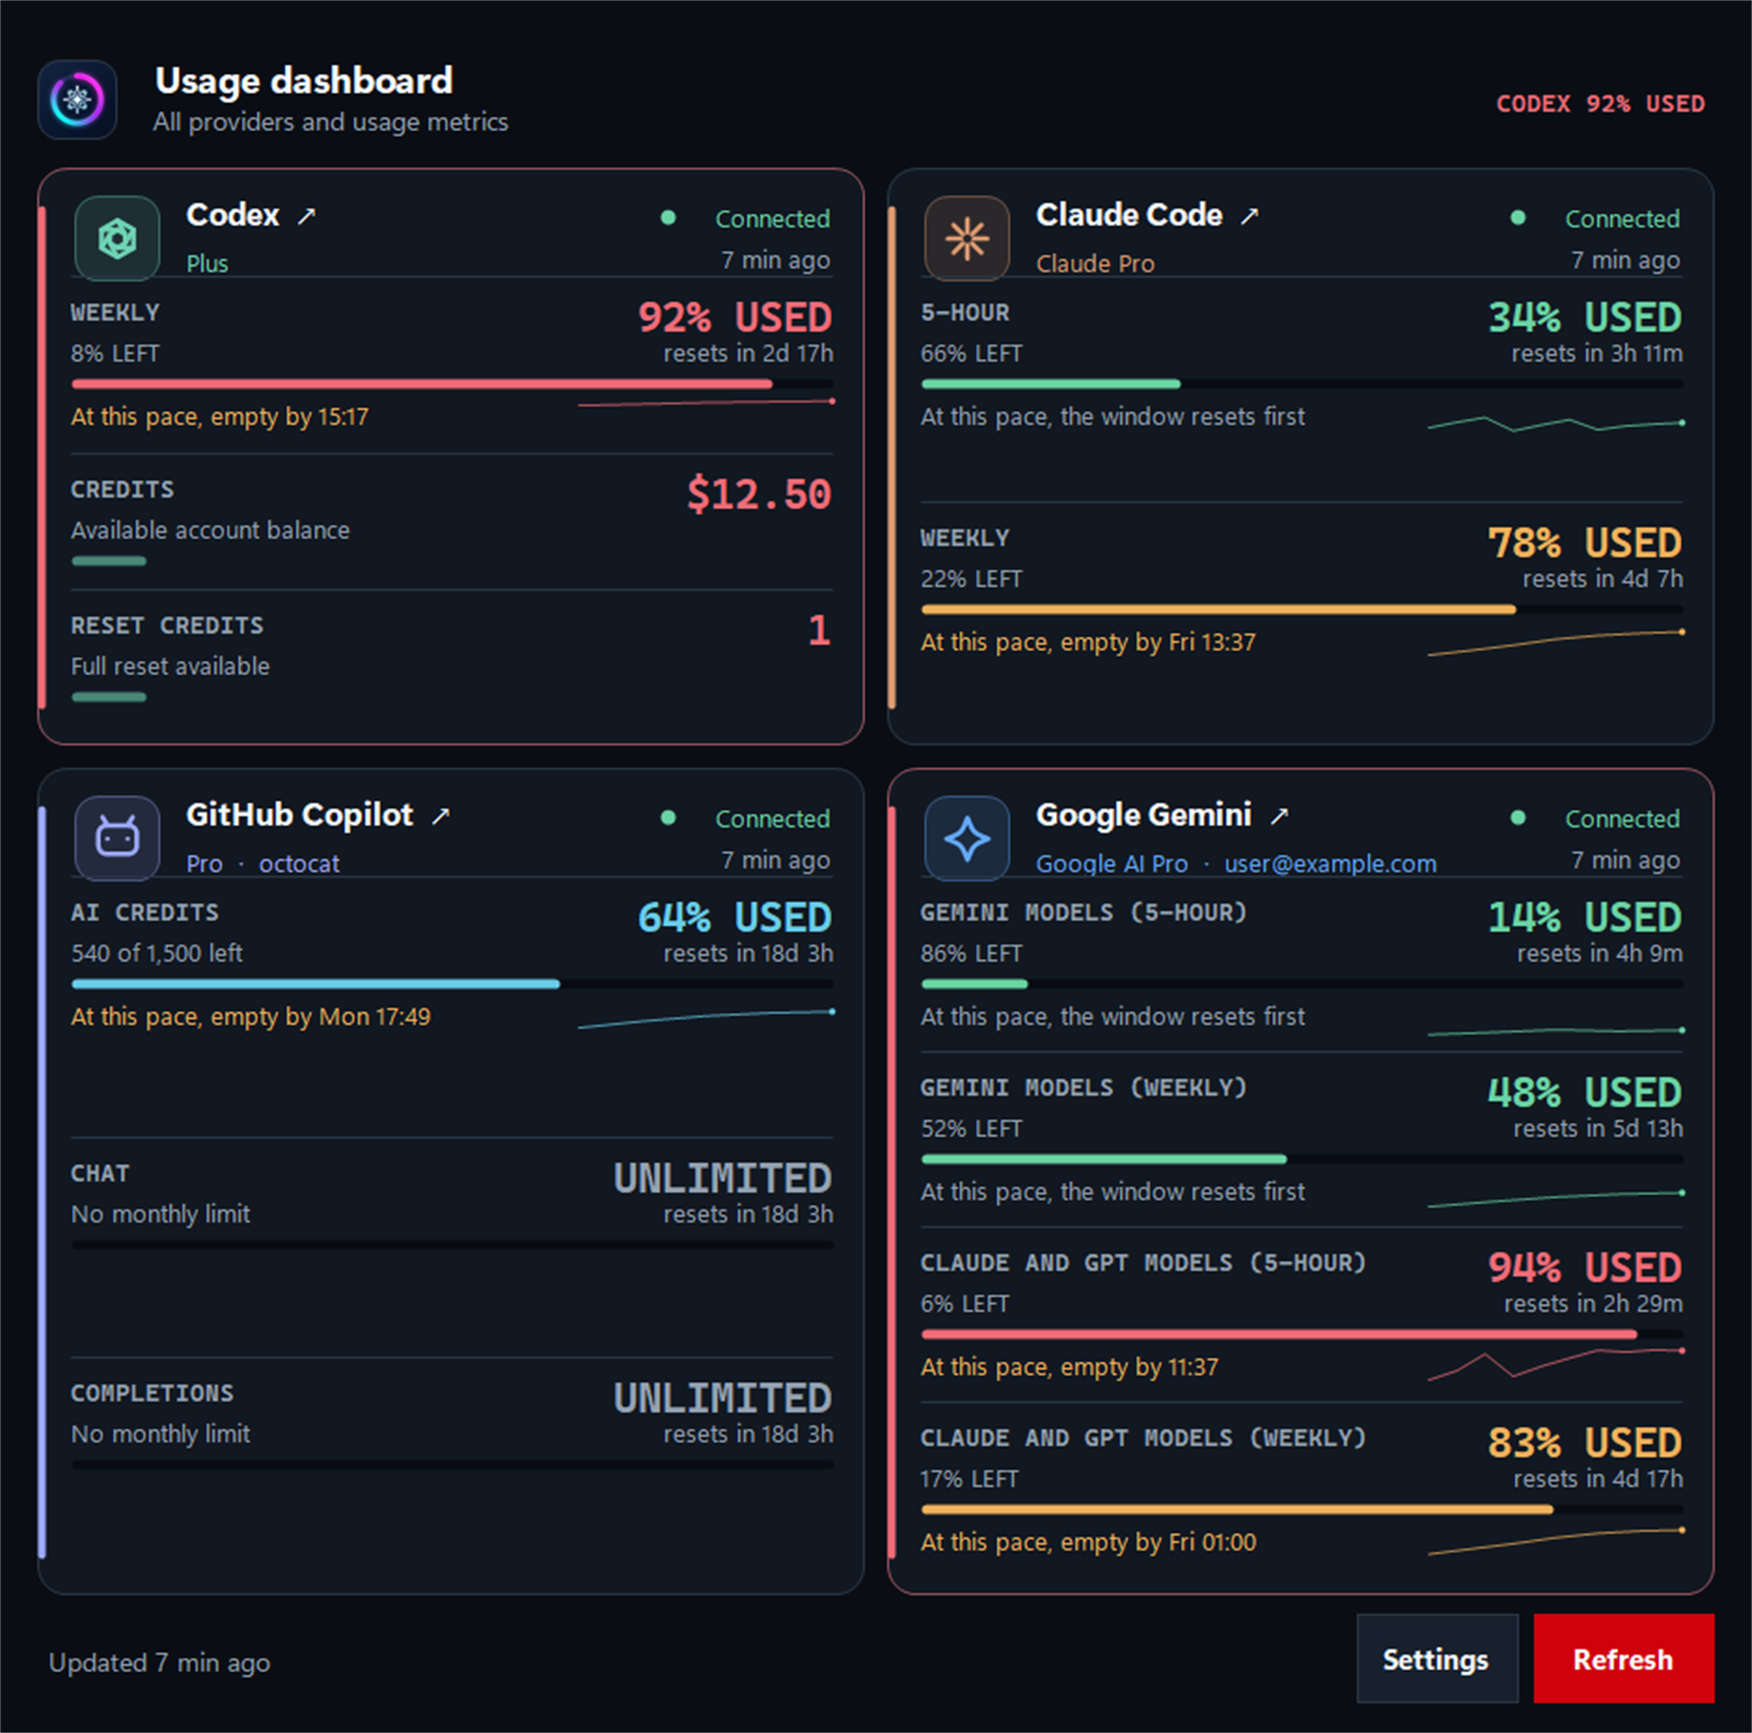
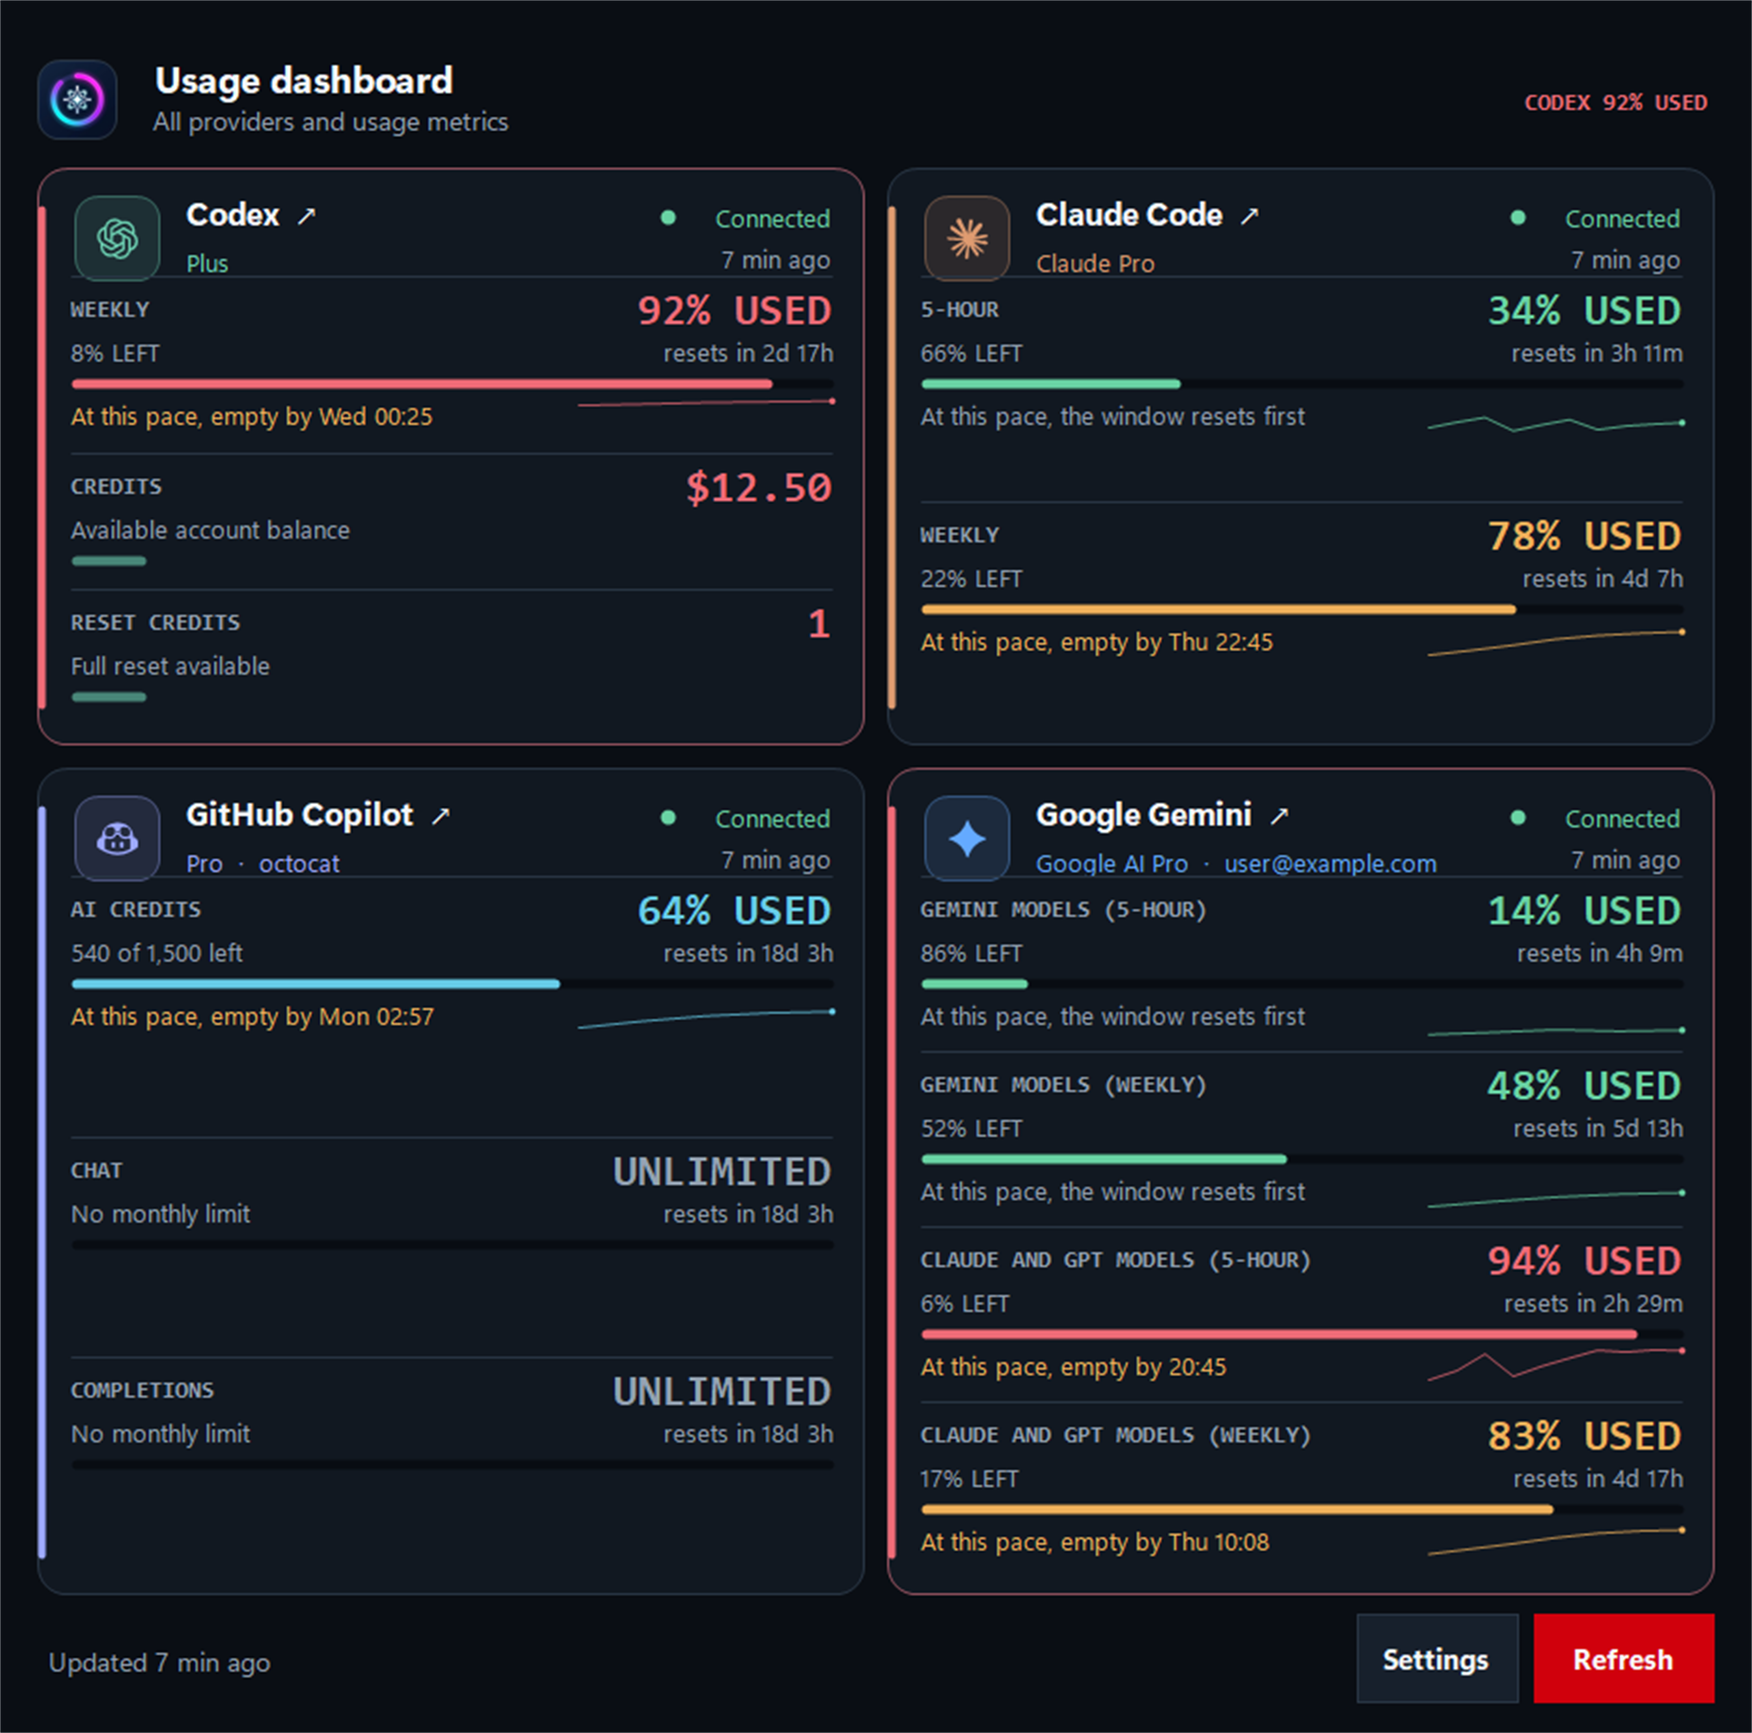
release: UsageAI 0.7.1

diff --git a/UI/ProviderIconPainter.cs b/UI/ProviderIconPainter.cs
@@ -1,9 +1,18 @@
 using System.Drawing.Drawing2D;
+using System.Drawing.Text;
+using System.Runtime.InteropServices;
 
 namespace UsageAI.UI;
 
 internal static class ProviderIconPainter
 {
+    private const string FontResourceName = "UsageAI.Resources.usageai-providers.ttf";
+    private static readonly Lazy<ProviderIconFont?> IconFont = new(
+        LoadIconFont,
+        LazyThreadSafetyMode.ExecutionAndPublication);
+
+    internal static bool IsBrandFontAvailable => IconFont.Value is not null;
+
     public static void Draw(Graphics graphics, Rectangle bounds, string providerId)
     {
         graphics.SmoothingMode = SmoothingMode.AntiAlias;
@@ -16,102 +25,110 @@ internal static class ProviderIconPainter
         graphics.FillPath(background, shape);
         graphics.DrawPath(border, shape);
 
-        var center = new PointF(bounds.Left + bounds.Width / 2F, bounds.Top + bounds.Height / 2F);
-        using var pen = new Pen(color, Math.Max(1.7F, bounds.Width / 18F))
+        var loadedFont = IconFont.Value;
+        if (loadedFont is null)
         {
-            StartCap = LineCap.Round,
-            EndCap = LineCap.Round,
-            LineJoin = LineJoin.Round,
+            DrawFallback(graphics, bounds, color, providerId);
+            return;
+        }
+
+        using var brush = new SolidBrush(color);
+        using var format = new StringFormat(StringFormat.GenericTypographic);
+        using var glyphPath = new GraphicsPath();
+        glyphPath.AddString(
+            GlyphFor(providerId),
+            loadedFont.Family,
+            (int)FontStyle.Regular,
+            Math.Max(1F, bounds.Width * 0.54F),
+            Point.Empty,
+            format);
+
+        var inkBounds = glyphPath.GetBounds();
+        if (inkBounds.Width <= 0 || inkBounds.Height <= 0)
+        {
+            DrawFallback(graphics, bounds, color, providerId);
+            return;
+        }
+
+        using var transform = new Matrix();
+        transform.Translate(
+            bounds.Left + bounds.Width / 2F - (inkBounds.Left + inkBounds.Width / 2F),
+            bounds.Top + bounds.Height / 2F - (inkBounds.Top + inkBounds.Height / 2F));
+        glyphPath.Transform(transform);
+        graphics.FillPath(brush, glyphPath);
+        GC.KeepAlive(loadedFont);
+    }
+
+    private static string GlyphFor(string providerId) => providerId.ToLowerInvariant() switch
+    {
+        "claude" => "\uE002",
+        "copilot" => "\uE003",
+        "gemini" => "\uE004",
+        _ => "\uE001",
+    };
+
+    private static void DrawFallback(Graphics graphics, Rectangle bounds, Color color, string providerId)
+    {
+        var label = string.IsNullOrWhiteSpace(providerId) ? "?" : providerId[..1].ToUpperInvariant();
+        using var font = new Font(
+            FontFamily.GenericSansSerif,
+            Math.Max(1F, bounds.Width * 0.4F),
+            FontStyle.Bold,
+            GraphicsUnit.Pixel);
+        using var brush = new SolidBrush(color);
+        using var format = new StringFormat
+        {
+            Alignment = StringAlignment.Center,
+            LineAlignment = StringAlignment.Center,
         };
+        graphics.DrawString(label, font, brush, bounds, format);
+    }
 
-        switch (providerId.ToLowerInvariant())
+    private static ProviderIconFont? LoadIconFont()
+    {
+        nint fontMemory = 0;
+        PrivateFontCollection? collection = null;
+        try
         {
-            case "claude":
-                DrawClaude(graphics, pen, center, bounds.Width);
-                break;
-            case "copilot":
-                DrawCopilot(graphics, pen, center, bounds.Width);
-                break;
-            case "gemini":
-                DrawGemini(graphics, pen, center, bounds.Width);
-                break;
-            default:
-                DrawCodex(graphics, pen, center, bounds.Width);
-                break;
+            using var stream = typeof(ProviderIconPainter).Assembly.GetManifestResourceStream(FontResourceName);
+            if (stream is null || stream.Length is <= 0 or > 128 * 1024)
+            {
+                return null;
+            }
+
+            var fontBytes = new byte[checked((int)stream.Length)];
+            stream.ReadExactly(fontBytes);
+            fontMemory = Marshal.AllocCoTaskMem(fontBytes.Length);
+            Marshal.Copy(fontBytes, 0, fontMemory, fontBytes.Length);
+
+            collection = new PrivateFontCollection();
+            collection.AddMemoryFont(fontMemory, fontBytes.Length);
+            var family = collection.Families.FirstOrDefault();
+            if (family is null)
+            {
+                collection.Dispose();
+                Marshal.FreeCoTaskMem(fontMemory);
+                return null;
+            }
+
+            // This holder is rooted by the static Lazy for the process lifetime. GDI+ requires
+            // both the collection and the backing memory to remain alive while its font is used.
+            return new ProviderIconFont(collection, family, fontMemory);
+        }
+        catch (Exception exception) when (exception is ArgumentException or ExternalException or IOException or NotSupportedException)
+        {
+            collection?.Dispose();
+            if (fontMemory != 0)
+            {
+                Marshal.FreeCoTaskMem(fontMemory);
+            }
+
+            return null;
         }
     }
 
-    private static void DrawCodex(Graphics graphics, Pen pen, PointF center, float size)
-    {
-        var outer = size * 0.22F;
-        var inner = size * 0.105F;
-        var outerPoints = Hexagon(center, outer, -30F);
-        var innerPoints = Hexagon(center, inner, -30F);
-        graphics.DrawPolygon(pen, outerPoints);
-        graphics.DrawPolygon(pen, innerPoints);
-        for (var index = 0; index < 6; index++)
-        {
-            graphics.DrawLine(pen, outerPoints[index], innerPoints[(index + 1) % 6]);
-        }
-    }
-
-    private static void DrawClaude(Graphics graphics, Pen pen, PointF center, float size)
-    {
-        var inner = size * 0.075F;
-        var outer = size * 0.235F;
-        for (var index = 0; index < 8; index++)
-        {
-            var angle = MathF.PI * index / 4F;
-            var start = new PointF(center.X + MathF.Cos(angle) * inner, center.Y + MathF.Sin(angle) * inner);
-            var end = new PointF(center.X + MathF.Cos(angle) * outer, center.Y + MathF.Sin(angle) * outer);
-            graphics.DrawLine(pen, start, end);
-        }
-    }
-
-    private static void DrawCopilot(Graphics graphics, Pen pen, PointF center, float size)
-    {
-        var head = new RectangleF(center.X - size * 0.23F, center.Y - size * 0.16F, size * 0.46F, size * 0.34F);
-        using var path = DrawingHelpers.RoundedRectangle(head, size * 0.10F);
-        graphics.DrawPath(pen, path);
-        graphics.DrawLine(pen, center.X - size * 0.12F, head.Top, center.X - size * 0.18F, head.Top - size * 0.10F);
-        graphics.DrawLine(pen, center.X + size * 0.12F, head.Top, center.X + size * 0.18F, head.Top - size * 0.10F);
-        using var eyeBrush = new SolidBrush(pen.Color);
-        var eye = Math.Max(2F, size * 0.055F);
-        graphics.FillEllipse(eyeBrush, center.X - size * 0.12F - eye / 2F, center.Y - eye / 2F, eye, eye);
-        graphics.FillEllipse(eyeBrush, center.X + size * 0.12F - eye / 2F, center.Y - eye / 2F, eye, eye);
-    }
-
-    private static void DrawGemini(Graphics graphics, Pen pen, PointF center, float size)
-    {
-        var outer = size * 0.25F;
-        var inner = size * 0.07F;
-        using var path = new GraphicsPath();
-        path.AddBezier(
-            new PointF(center.X, center.Y - outer),
-            new PointF(center.X + inner, center.Y - inner),
-            new PointF(center.X + inner, center.Y - inner),
-            new PointF(center.X + outer, center.Y));
-        path.AddBezier(
-            new PointF(center.X + outer, center.Y),
-            new PointF(center.X + inner, center.Y + inner),
-            new PointF(center.X + inner, center.Y + inner),
-            new PointF(center.X, center.Y + outer));
-        path.AddBezier(
-            new PointF(center.X, center.Y + outer),
-            new PointF(center.X - inner, center.Y + inner),
-            new PointF(center.X - inner, center.Y + inner),
-            new PointF(center.X - outer, center.Y));
-        path.AddBezier(
-            new PointF(center.X - outer, center.Y),
-            new PointF(center.X - inner, center.Y - inner),
-            new PointF(center.X - inner, center.Y - inner),
-            new PointF(center.X, center.Y - outer));
-        graphics.DrawPath(pen, path);
-    }
-
-    private static PointF[] Hexagon(PointF center, float radius, float offsetDegrees) =>
-        Enumerable.Range(0, 6)
-            .Select(index => (offsetDegrees + index * 60F) * MathF.PI / 180F)
-            .Select(angle => new PointF(center.X + MathF.Cos(angle) * radius, center.Y + MathF.Sin(angle) * radius))
-            .ToArray();
+    private sealed record ProviderIconFont(
+        PrivateFontCollection Collection,
+        FontFamily Family,
+        nint FontMemory);
 }

diff --git a/UsageAI.Tests/CoverageExpansionTests.cs b/UsageAI.Tests/CoverageExpansionTests.cs
@@ -1294,6 +1294,7 @@ internal static class CoverageExpansionTests
             DrawingHelpers.DrawBalanceMarker(graphics, Rectangle.Empty, Color.Blue);
             DrawingHelpers.DrawSparkline(graphics, new Rectangle(5, 110, 140, 30), SparklineValues, Color.Green);
             DrawingHelpers.DrawSparkline(graphics, Rectangle.Empty, SingleSparklineValue, Color.Green);
+            True(ProviderIconPainter.IsBrandFontAvailable);
             foreach (var provider in IconProviderIds)
             {
                 ProviderIconPainter.Draw(graphics, new Rectangle(170, 5, 48, 48), provider);

diff --git a/README.md b/README.md
@@ -30,7 +30,7 @@ You're mid-refactor and the model stops. Weekly limit. Nobody told you it was cl
 **UsageAI** is a tiny Windows tray app that keeps every AI coding limit you have in one glance — how much you've used, how fast you're burning it, and exactly when it resets. No dashboards to open, no logins to repeat, no surprises at 2 a.m.
 
 <p align="center">
-  <img src="usageai-preview.png" alt="UsageAI tray popup" width="420" />
+  <img src="usageai-preview.png" alt="UsageAI compact tray popup with branded provider icons" width="420" />
 </p>
 
 ## ⚡ Get it
@@ -49,11 +49,14 @@ Windows 10 or 11 (x64), plus at least one AI tool you're already signed in to. T
 
 The pure TypeScript editor extension lives in [`extension/`](extension/README.md). It adds a UsageAI
 Activity Bar view that can stay pinned in the Primary or Secondary Sidebar, plus an always-available
-Status Bar summary. One VSIX targets both VS Code and Antigravity; marketplace publication is kept
-separate for Visual Studio Marketplace and Open VSX.
+Status Bar summary. The Status Bar shows session and weekly percentages side by side; hover it for
+segmented meters, the last-updated time, and quick Open/Refresh actions. One VSIX targets both VS Code
+and Antigravity; marketplace publication is kept separate for Visual Studio Marketplace and Open VSX.
 
-Until the first marketplace release, download the VSIX from the GitHub release and select
-**Extensions: Install from VSIX...** in VS Code or Antigravity. To build it from source instead:
+Install it from the [Visual Studio Marketplace](https://marketplace.visualstudio.com/items?itemName=vladikogan.usageai)
+or [Open VSX](https://open-vsx.org/extension/vladikogan/usageai). For manual installation, download
+the VSIX from the GitHub release and select **Extensions: Install from VSIX...** in VS Code or
+Antigravity. To build it from source instead:
 
 ```powershell
 cd extension
@@ -76,10 +79,12 @@ npm.cmd run package:vsix
 
 **Reset countdowns, plan and account** for each provider, so you always know what you're on and how long until it refills.
 
+**The providers look like themselves.** Codex, Claude, GitHub Copilot, and Gemini use the same recognizable monochrome brand marks in the Windows dashboard and editor Status Bar, coloured by the surrounding native theme.
+
 **One glance or the full picture.** Left-click for a compact popup; open the dashboard for a responsive multi-column view that reflows as you resize it and fills the space you give it.
 
 <p align="center">
-  <img src="usageai-dashboard-preview.png" alt="UsageAI detailed dashboard" width="750" />
+  <img src="usageai-dashboard-preview.png" alt="UsageAI detailed dashboard with branded provider icons" width="750" />
 </p>
 
 **It never goes blank.** If a refresh fails, UsageAI keeps the last good reading and marks it **stale**, with the provider's own error message attached — then backs off before retrying instead of hammering a rate-limited API.

diff --git a/THIRD-PARTY-NOTICES.md b/THIRD-PARTY-NOTICES.md
@@ -1,0 +1,33 @@
+# Third-party notices
+
+## Lobe Icons
+
+The provider glyphs in `Resources/usageai-providers.ttf` are derived from the OpenAI, Claude,
+GitHub Copilot, and Gemini SVG icons in `@lobehub/icons-static-svg` 1.94.0:
+
+https://github.com/lobehub/lobe-icons
+
+MIT License
+
+Copyright (c) 2023 LobeHub
+
+Permission is hereby granted, free of charge, to any person obtaining a copy
+of this software and associated documentation files (the "Software"), to deal
+in the Software without restriction, including without limitation the rights
+to use, copy, modify, merge, publish, distribute, sublicense, and/or sell
+copies of the Software, and to permit persons to whom the Software is
+furnished to do so, subject to the following conditions:
+
+The above copyright notice and this permission notice shall be included in all
+copies or substantial portions of the Software.
+
+THE SOFTWARE IS PROVIDED "AS IS", WITHOUT WARRANTY OF ANY KIND, EXPRESS OR
+IMPLIED, INCLUDING BUT NOT LIMITED TO THE WARRANTIES OF MERCHANTABILITY,
+FITNESS FOR A PARTICULAR PURPOSE AND NONINFRINGEMENT. IN NO EVENT SHALL THE
+AUTHORS OR COPYRIGHT HOLDERS BE LIABLE FOR ANY CLAIM, DAMAGES OR OTHER
+LIABILITY, WHETHER IN AN ACTION OF CONTRACT, TORT OR OTHERWISE, ARISING FROM,
+OUT OF OR IN CONNECTION WITH THE SOFTWARE OR THE USE OR OTHER DEALINGS IN THE
+SOFTWARE.
+
+OpenAI, Claude, GitHub Copilot, Gemini, and their respective logos are trademarks of their
+respective owners. Their use identifies compatible usage providers and does not imply endorsement.

diff --git a/Changelog.md b/Changelog.md
@@ -6,14 +6,21 @@ The project follows [Semantic Versioning](https://semver.org/).
 
 ## [Unreleased]
 
+## [0.7.1] - 2026-08-11
+
 ### Added
 
 - The editor Status Bar now shows the session and weekly percentages side by side, with segmented quota meters, the last-updated time, and Open/Refresh actions in its hover card.
-- Provider-specific monochrome Codex/OpenAI, Claude, GitHub Copilot, and Gemini glyphs for editor Status Bar readings. The bundled icon font inherits the active theme and requires no external font installation.
+- Shared monochrome Codex/OpenAI, Claude, GitHub Copilot, and Gemini brand glyphs for the editor Status Bar and desktop provider cards. The icon fonts are bundled with each app, inherit the active theme, and require no external font installation.
 
 ### Changed
 
-- Replaced the editor extension's generic pulse icon with the matching provider glyph while retaining loading and warning icons.
+- Replaced the desktop app's hand-drawn provider symbols and the editor extension's generic pulse icon with the shared provider glyph set, while retaining state-specific loading and warning icons.
+- Regenerated the compact popup and full dashboard previews to show the new provider icons.
+
+### Fixed
+
+- Centered desktop provider logos by their visible vector bounds instead of the font line box, removing the upward offset in both compact and full dashboard cards.
 
 ## [0.7.0] - 2026-08-11
 
